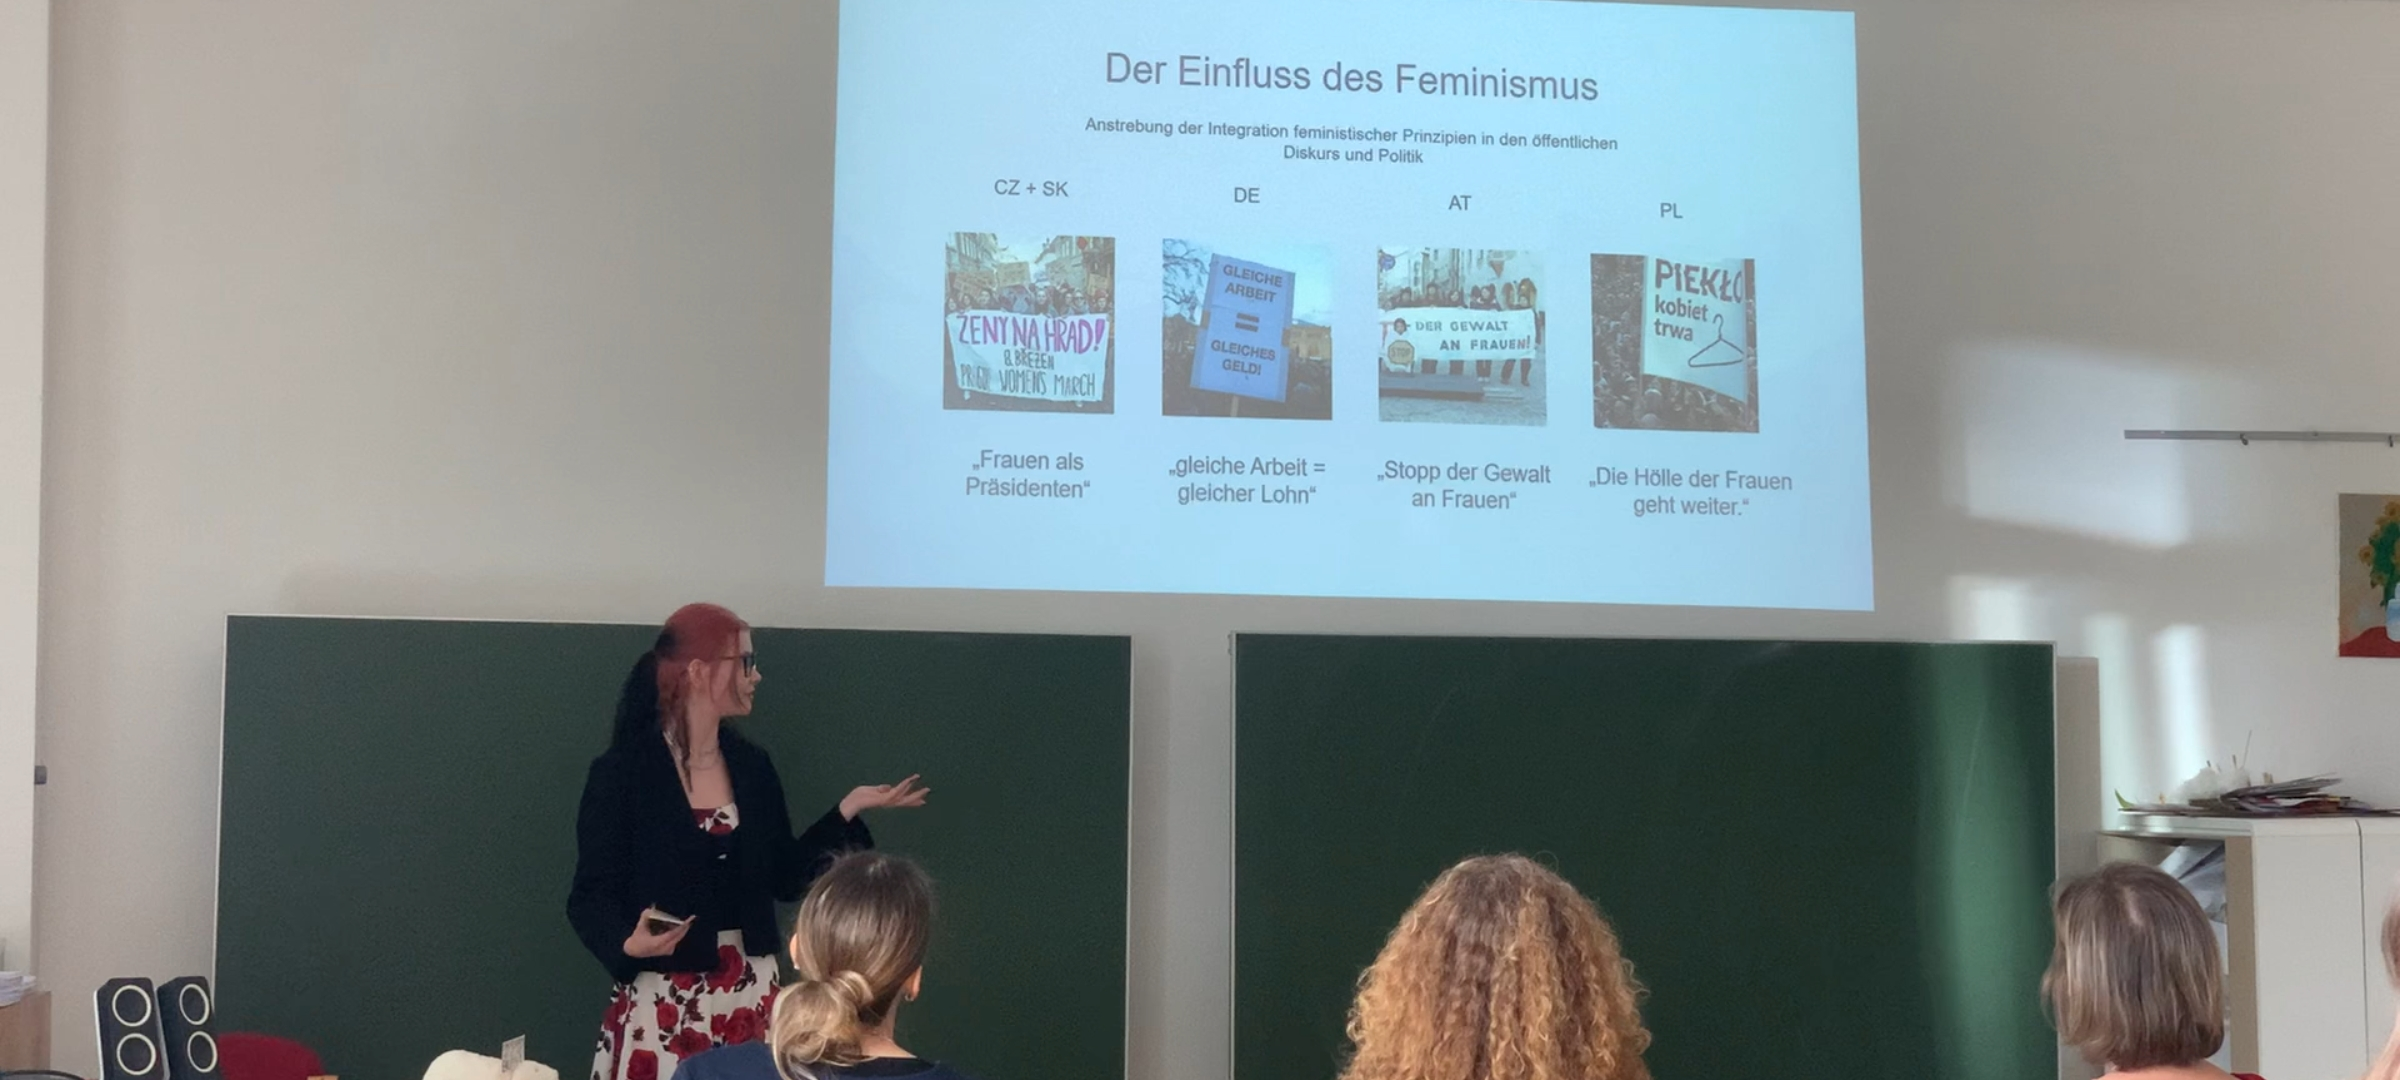
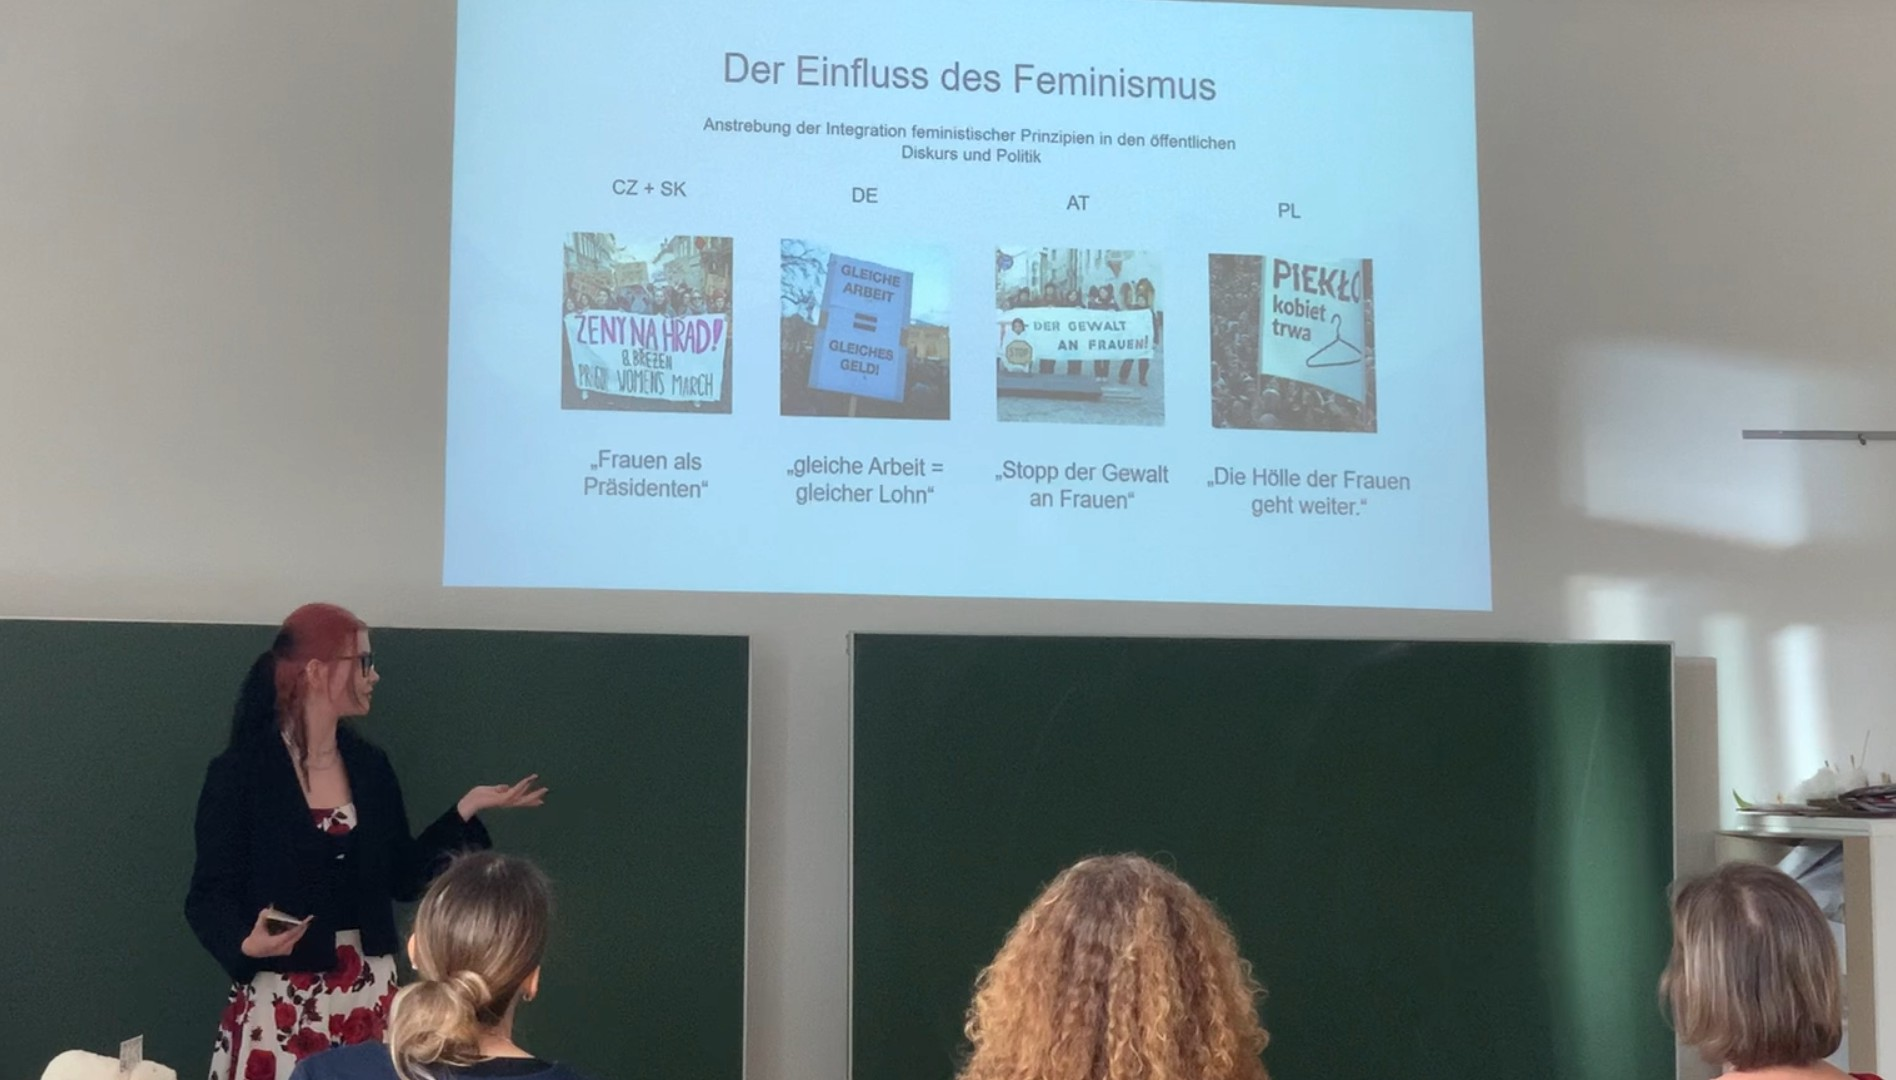
refactor styling and layout for feminism component entries

diff --git a/src/components/mm-feminism.ts b/src/components/mm-feminism.ts
@@ -81,33 +81,28 @@ export class MMFeminism extends LitElement {
     .entries {
       display: flex;
       flex-direction: column;
-      gap: 5rem;
+      gap: 4rem;
     }
 
     .entry {
-      display: grid;
-      grid-template-columns: 1fr 1fr;
-      gap: 3rem;
-      align-items: start;
+      overflow: hidden; /* clearfix for floated image */
     }
 
-    .entry.reverse {
-      direction: rtl;
-    }
-
-    .entry.reverse > * {
-      direction: ltr;
-    }
-
-    /* image side */
+    /* image — floated so text wraps around it */
     .entry-image-wrap {
-      position: sticky;
-      top: 1.5rem;
+      float: left;
+      width: 42%;
+      margin: 0.3rem 2.25rem 1.25rem 0;
       border-radius: 0.75rem;
       overflow: hidden;
       border: 1px solid rgba(148, 163, 184, 0.2);
       cursor: zoom-in;
       transition: transform 200ms ease, box-shadow 200ms ease;
+    }
+
+    .entry.reverse .entry-image-wrap {
+      float: right;
+      margin: 0.3rem 0 1.25rem 2.25rem;
     }
 
     .entry-image-wrap:hover {
@@ -119,13 +114,6 @@ export class MMFeminism extends LitElement {
       width: 100%;
       height: auto;
       display: block;
-    }
-
-    /* text side */
-    .entry-content {
-      display: flex;
-      flex-direction: column;
-      gap: 1rem;
     }
 
     .entry-meta {
@@ -237,12 +225,12 @@ export class MMFeminism extends LitElement {
     }
 
     /* responsive */
-    @media (max-width: 900px) {
-      .entry,
-      .entry.reverse {
-        grid-template-columns: 1fr;
-        direction: ltr;
-        gap: 1.75rem;
+    @media (max-width: 700px) {
+      .entry-image-wrap,
+      .entry.reverse .entry-image-wrap {
+        float: none;
+        width: 100%;
+        margin: 0 0 1.5rem 0;
       }
 
       h1 {
@@ -267,40 +255,38 @@ export class MMFeminism extends LitElement {
         >
           <img src="${entry.image}" alt="${entry.imageAlt}" loading="lazy" />
         </div>
-        <div class="entry-content">
-          <div class="entry-meta">${entry.meta}</div>
-          <h2 id="fe-${entry.id}" class="entry-title">${entry.title}</h2>
-          <hr class="entry-divider" />
-          <p class="entry-body">${entry.body}</p>
-          ${entry.pdf || entry.link ? html`
-            <div class="entry-actions">
-              ${entry.pdf ? html`
-                <a
-                  class="action-btn"
-                  href="${entry.pdf.path}"
-                  target="_blank"
-                  rel="noopener noreferrer"
-                  download
-                >
-                  <span aria-hidden="true">↓</span>
-                  <span>${entry.pdf.label}</span>
-                </a>
-                <p class="disclaimer">${entry.pdf.disclaimer}</p>
-              ` : null}
-              ${entry.link ? html`
-                <a
-                  class="action-btn"
-                  href="${entry.link.href}"
-                  target="_blank"
-                  rel="noopener noreferrer"
-                >
-                  <span>${entry.link.label}</span>
-                  <span aria-hidden="true">↗</span>
-                </a>
-              ` : null}
-            </div>
-          ` : null}
-        </div>
+        <div class="entry-meta">${entry.meta}</div>
+        <h2 id="fe-${entry.id}" class="entry-title">${entry.title}</h2>
+        <hr class="entry-divider" />
+        <p class="entry-body">${entry.body}</p>
+        ${entry.pdf || entry.link ? html`
+          <div class="entry-actions">
+            ${entry.pdf ? html`
+              <a
+                class="action-btn"
+                href="${entry.pdf.path}"
+                target="_blank"
+                rel="noopener noreferrer"
+                download
+              >
+                <span aria-hidden="true">↓</span>
+                <span>${entry.pdf.label}</span>
+              </a>
+              <p class="disclaimer">${entry.pdf.disclaimer}</p>
+            ` : null}
+            ${entry.link ? html`
+              <a
+                class="action-btn"
+                href="${entry.link.href}"
+                target="_blank"
+                rel="noopener noreferrer"
+              >
+                <span>${entry.link.label}</span>
+                <span aria-hidden="true">↗</span>
+              </a>
+            ` : null}
+          </div>
+        ` : null}
       </article>
     `;
   }
